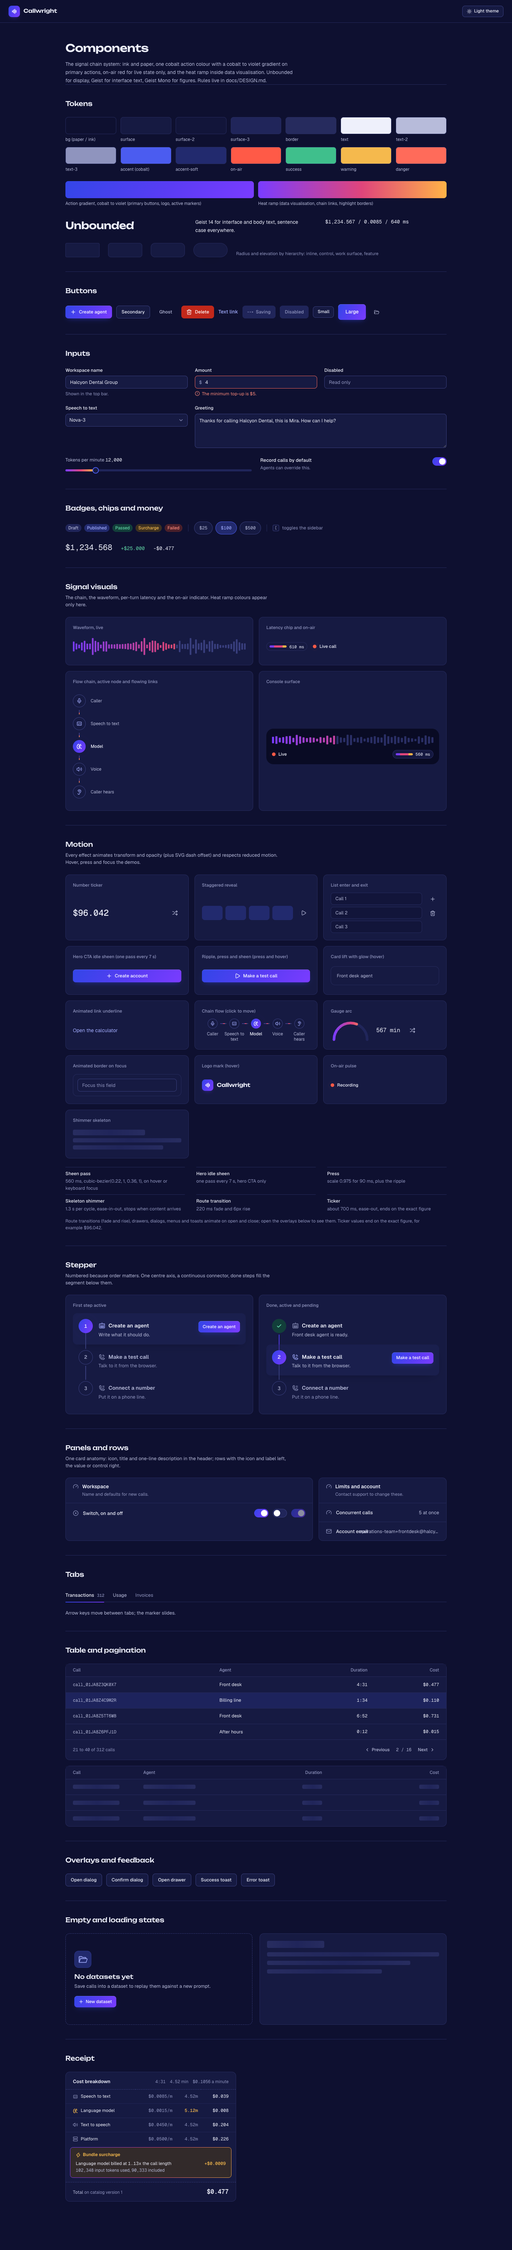
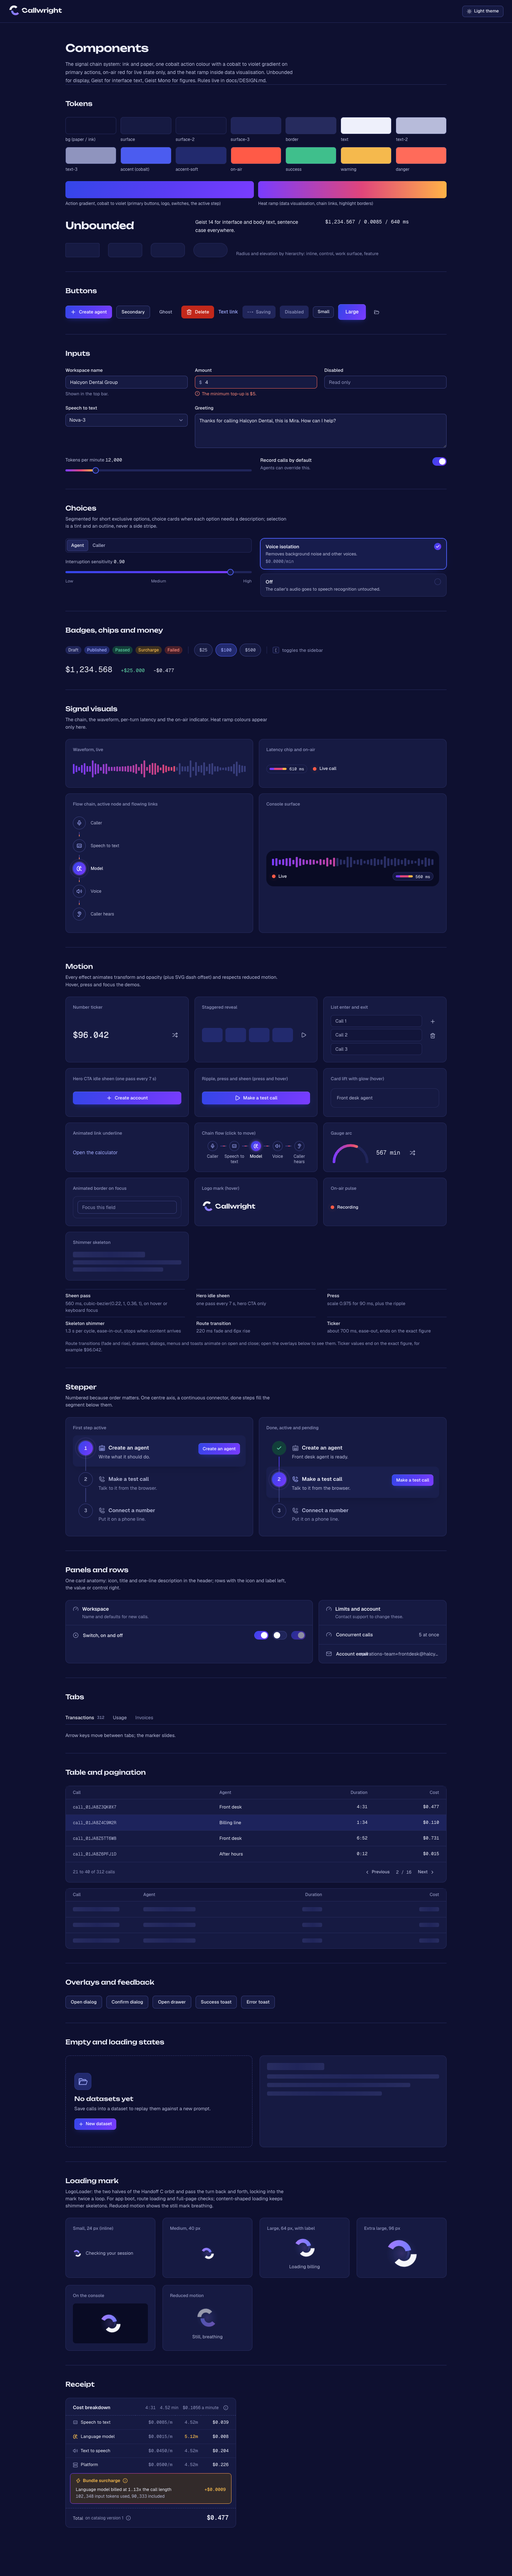
Document the agent builder components and add its screenshots
DESIGN.md gains Segmented, ChoiceGroup, slider marks, the vertical cost chain
and the critique notes from this pass; docs/screens holds every new agents
screen in light and dark at 1440 and 390; web tasks of 002 are marked done.

diff --git a/specs/002-agent-builder/tasks.md b/specs/002-agent-builder/tasks.md
@@ -60,7 +60,7 @@ research/architecture.md section 2 and plan.md.
 - [ ] T021 [P] Create SQLAlchemy models in `services/api/app/agents/models.py` (Agent) and `services/api/app/agent_versions/models.py` (AgentVersion)
 - [ ] T022 Implement `create_version(agent_id, config, note, source, publish=False)` with per-agent numbering under row lock, snapshot resolvers, hash dedupe and publish-blocker capture in `services/api/app/agent_versions/service.py`
 - [ ] T023 [P] Write integration test that `UPDATE`/`DELETE` on `agent_versions` and `UPDATE agents.type` raise, in `services/api/tests/integration/agent_versions/test_immutability.py`
-- [ ] T024 [P] Add web route skeleton in `apps/web/src/app/router.tsx` for `/agents`, `/agents/new`, `/agents/templates`, `/agents/new/single`, `/agents/:id`, `/agents/:id/edit`, and the type redirect in `apps/web/src/routes/agents/agentRedirect.tsx`
+- [x] T024 [P] Add web route skeleton in `apps/web/src/app/router.tsx` for `/agents`, `/agents/new`, `/agents/templates`, `/agents/new/single`, `/agents/:id`, `/agents/:id/edit`, and the type redirect in `apps/web/src/routes/agents/agentRedirect.tsx`
 - [ ] T090 [P] Catalog consistency test (FR-039, FR-042, FR-047, FR-048) in `services/api/tests/unit/catalog/test_catalog_consistency.py`: every LLM (provider, model), STT (provider, model and Auto), TTS (provider, model) and NC option has an exact rate in 001's seed under the same id; one model id across providers; language codes and labels unique; each shipped language covered by at least one STT and one TTS option; every STT provider has Auto or a default model; every default in `defaults.py` lies inside its control range and on its step; runs in CI
 - [ ] T091 [P] Round-trip test in `services/api/tests/integration/agents/test_config_roundtrip.py`: for both `single_prompt` and `flow` types, set every AgentConfig path in data-model section 4 to a non-default valid value, save, reload, and assert each value persisted (guards against partial saves such as dropped webhook timeout, pronunciation or analysis model)
 
@@ -82,7 +82,7 @@ research/architecture.md section 2 and plan.md.
 - [ ] T028 [P] [US1] Integration test for saving in `services/api/tests/integration/agents/test_save_draft.py`: create requires a valid config; change records version n+1; unchanged config returns `created=false`; name-only change records no version; stale `If-Match` returns 412 `draft_changed`; all errors returned together
 - [ ] T029 [P] [US1] Unit tests for voice listing adapters normalisation and cursor paging against fixtures in `services/api/tests/unit/voices/test_adapters.py`
 - [ ] T030 [P] [US1] Integration test for ambient uploads (magic-byte check, 10 MB limit, 20-file limit, signed preview URL, delete refused while referenced) in `services/api/tests/integration/agents/test_ambient_audio.py`
-- [ ] T031 [P] [US1] Playwright journey chooser, blank form, aggregated errors, fixed-temperature lock, variable auto-detection, save, reload persists, leave guard, in `apps/web/tests/e2e/agents-create.spec.ts`
+- [x] T031 [P] [US1] Playwright journey chooser, blank form, aggregated errors, fixed-temperature lock, variable auto-detection, save, reload persists, leave guard, in `apps/web/tests/e2e/agents-create.spec.ts`
 
 ### Implementation for User Story 1
 
@@ -92,19 +92,19 @@ research/architecture.md section 2 and plan.md.
 - [ ] T035 [P] [US1] Implement voice listing adapters in `services/api/app/voices/adapters/elevenlabs.py` (live, server search), `cartesia.py` (live full list, local search, gender and language filters) and `fishaudio.py` (curated allow-list from YAML, local search, language filter) with Redis caching in `services/api/app/voices/service.py`; no Sarvam voice adapter at launch (data-model 8.4)
 - [ ] T036 [US1] Implement migration `services/api/app/migrations/versions/0007_ambient_audio.py`, model in `services/api/app/voices/models.py`, upload/list/delete service with S3 and usage check via `jsonb_path_ops` lookup in `services/api/app/voices/service.py`
 - [ ] T037 [US1] Implement routes `GET /v1/voices/catalog`, `GET /v1/voices/{provider}/voices`, `/v1/voices/ambient-audio` in `services/api/app/voices/router.py` and `services/api/app/voices/schemas.py`
-- [ ] T038 [P] [US1] Build `apps/web/src/routes/agents/NewAgentTypePage.tsx` (two cards, bullets, "cannot be changed later", continue to templates or flow creation)
-- [ ] T039 [US1] Build `apps/web/src/routes/agents/editor/useAgentDraft.ts` (react-hook-form, debounced `POST /v1/agents/validate`, pointer-to-field error mapping, save via POST then PUT with If-Match, 412 handling) and `AgentEditorPage.tsx` (header with copyable agent id, version badge, Save, wrong-type guard for flow agents, LeaveGuard and ErrorSummaryDialog from 001)
-- [ ] T040 [P] [US1] Build `apps/web/src/routes/agents/editor/BasicSection.tsx`, `ModelPicker.tsx`, `TemperatureControl.tsx` (fixed lock with reason, clamp notice), `VariablesEditor.tsx` (auto-detected plus manual, defaults, reserved and unused markers)
-- [ ] T041 [P] [US1] Build `apps/web/src/routes/agents/editor/VoiceSection.tsx`, `SttPickerDialog.tsx` (Auto, single-model lock), `VoicePickerDialog.tsx` (search, gender and language filters, preview where available, retry on 503), `NoiseCancellationSelect.tsx`
-- [ ] T042 [P] [US1] Build `apps/web/src/routes/agents/editor/CallBehaviorSection.tsx` (silence 10 to 300 s slider, max duration in minutes, ring time, interruption and responsiveness with Low/Medium/High labels)
-- [ ] T043 [P] [US1] Build `apps/web/src/routes/agents/editor/AdvancedSection.tsx`, `WebhookField.tsx`, `BackgroundAudioField.tsx` (built-ins plus "Your uploads", upload, volume as percent of normal where gain 1.0 is 100%), `PronunciationEditor.tsx`, voicemail and keypad subsections, analysis model select
+- [x] T038 [P] [US1] Build `apps/web/src/routes/agents/NewAgentTypePage.tsx` (two cards, bullets, "cannot be changed later", continue to templates or flow creation)
+- [x] T039 [US1] Build `apps/web/src/routes/agents/editor/useAgentDraft.ts` (react-hook-form, debounced `POST /v1/agents/validate`, pointer-to-field error mapping, save via POST then PUT with If-Match, 412 handling) and `AgentEditorPage.tsx` (header with copyable agent id, version badge, Save, wrong-type guard for flow agents, LeaveGuard and ErrorSummaryDialog from 001)
+- [x] T040 [P] [US1] Build `apps/web/src/routes/agents/editor/BasicSection.tsx`, `ModelPicker.tsx`, `TemperatureControl.tsx` (fixed lock with reason, clamp notice), `VariablesEditor.tsx` (auto-detected plus manual, defaults, reserved and unused markers)
+- [x] T041 [P] [US1] Build `apps/web/src/routes/agents/editor/VoiceSection.tsx`, `SttPickerDialog.tsx` (Auto, single-model lock), `VoicePickerDialog.tsx` (search, gender and language filters, preview where available, retry on 503), `NoiseCancellationSelect.tsx`
+- [x] T042 [P] [US1] Build `apps/web/src/routes/agents/editor/CallBehaviorSection.tsx` (silence 10 to 300 s slider, max duration in minutes, ring time, interruption and responsiveness with Low/Medium/High labels)
+- [x] T043 [P] [US1] Build `apps/web/src/routes/agents/editor/AdvancedSection.tsx`, `WebhookField.tsx`, `BackgroundAudioField.tsx` (built-ins plus "Your uploads", upload, volume as percent of normal where gain 1.0 is 100%), `PronunciationEditor.tsx`, voicemail and keypad subsections, analysis model select
 - [ ] T044 [US1] Extend `services/api/tests/integration/test_rls_isolation.py` for `agents`, `agent_versions`, `ambient_audio_files`
-- [ ] T092 [P] [US1] Playwright scenarios in `apps/web/tests/e2e/agents-validation.spec.ts` (US1.9 to US1.14): `notaurl`, timeout 50 ms, max duration 0.2 and 61 minutes, ring -1 ms each show an inline error on blur and Save sends no request; `bad name!` refused as a variable; caller-first disables the greeting and keeps its text; provider switch picks the language default voice with a notice; labels equal stored values
+- [x] T092 [P] [US1] Playwright scenarios in `apps/web/tests/e2e/agents-validation.spec.ts` (US1.9 to US1.14): `notaurl`, timeout 50 ms, max duration 0.2 and 61 minutes, ring -1 ms each show an inline error on blur and Save sends no request; `bad name!` refused as a variable; caller-first disables the greeting and keeps its text; provider switch picks the language default voice with a notice; labels equal stored values
 - [ ] T093 [US1] Add `greeting_unused` warning (non-empty greeting with `start_speaker = user`) to `validate_config` in `services/api/app/agents/service.py` with unit cases in `services/api/tests/unit/agents/test_validate_config.py`; disable the greeting field with an explanation in `BasicSection.tsx`
-- [ ] T094 [P] [US1] Display formatters in `apps/web/src/routes/agents/editor/formatters.ts` (exact durations such as "1.5 s", multiplier, percent of normal gain) driven by catalog `controls`, used by every slider and number field; Vitest in `formatters.test.ts`
+- [x] T094 [P] [US1] Display formatters in `apps/web/src/routes/agents/editor/formatters.ts` (exact durations such as "1.5 s", multiplier, percent of normal gain) driven by catalog `controls`, used by every slider and number field; Vitest in `formatters.test.ts`
 - [ ] T095 [US1] Provider switch (FR-010): in `VoiceSection.tsx` set the provider's default model and `default_voice_by_language[language]`, show a notice naming the voice; server-side `validate_config` replaces a foreign voice with the same default and returns `component_replaced`
-- [ ] T096 [US1] "Test" on a never-saved agent (FR-044) in `apps/web/src/routes/agents/editor/AgentEditorPage.tsx`: run the save path (validation summary on errors), then open 003's test panel for the new agent; remove any placeholder behaviour
-- [ ] T097 [P] [US1] Editor panel slots (FR-043) in `apps/web/src/routes/agents/editor/panelSlots.ts`: a registry where 007 mounts the analysis variables and quality checks panels for both agent types; the single-prompt editor renders registered panels as tabs
+- [x] T096 [US1] "Test" on a never-saved agent (FR-044) in `apps/web/src/routes/agents/editor/AgentEditorPage.tsx`: run the save path (validation summary on errors), then open 003's test panel for the new agent; remove any placeholder behaviour
+- [x] T097 [P] [US1] Editor panel slots (FR-043) in `apps/web/src/routes/agents/editor/panelSlots.ts`: a registry where 007 mounts the analysis variables and quality checks panels for both agent types; the single-prompt editor renders registered panels as tabs
 
 **Checkpoint**: A single-prompt agent can be created, edited and saved with versions recorded.
 
@@ -127,7 +127,7 @@ research/architecture.md section 2 and plan.md.
 
 - [ ] T049 [US2] Implement `list_agents` (trigram search, exact id short-circuit, summaries with published version), `duplicate_agent`, `delete_agent` in `services/api/app/agents/service.py`
 - [ ] T050 [US2] Add routes `GET /v1/agents`, `POST /v1/agents/{agent_id}/duplicate`, `DELETE /v1/agents/{agent_id}` in `services/api/app/agents/router.py`
-- [ ] T051 [P] [US2] Build `apps/web/src/routes/agents/AgentsListPage.tsx` and `AgentCard.tsx` (badges, model, voice, language, published version, dates, search box, type filter, empty state, duplicate, delete confirm with attachment list on 409)
+- [x] T051 [P] [US2] Build `apps/web/src/routes/agents/AgentsListPage.tsx` and `AgentCard.tsx` (badges, model, voice, language, published version, dates, search box, type filter, empty state, duplicate, delete confirm with attachment list on 409)
 - [ ] T098 [US2] Idempotent create and duplicate (FR-038): honour `Idempotency-Key` on `POST /v1/agents` and `POST /v1/agents/{agent_id}/duplicate` with Redis key `idem:agents:{workspace_id}:{key}` (24 h) holding the created agent id in `services/api/app/agents/router.py`; integration test in `services/api/tests/integration/agents/test_idempotent_create.py` (same key twice returns the same agent, different keys create two); UI buttons disabled while pending and duplicate shows a toast linking to the copy
 
 **Checkpoint**: US1 and US2 work independently.
@@ -146,18 +146,18 @@ research/architecture.md section 2 and plan.md.
 - [ ] T053 [P] [US3] Unit tests for the keyed diff (variables by name, pronunciation by word ignoring case, tool ids by value, scalar replace, add/remove, stable ordering) in `services/api/tests/unit/agent_versions/test_diff.py`
 - [ ] T054 [P] [US3] Integration tests in `services/api/tests/integration/agent_versions/test_publish_restore.py`: publish sets pointer; publish re-evaluates blockers against current catalog (withdrawn component refused 422 `publish_blocked`); unpublish; restore records `source=restore` with `restored_from`; restore with `publish=true`; restore with stale If-Match 412; versions of a deleted agent readable
 - [ ] T055 [P] [US3] Integration test in `services/api/tests/integration/agent_versions/test_snapshot_for_test.py`: unchanged draft reuses the draft version; changed resolved tools produce a `source=test` version; published pointer untouched; hidden from history unless `include_test=true`
-- [ ] T056 [P] [US3] Vitest for `versionLabels.ts` coverage (every AgentConfig path in data-model section 4 has a label) in `apps/web/src/routes/agents/versions/versionLabels.test.ts`
-- [ ] T057 [P] [US3] Playwright journey history drawer, compare with readable labels and line diff, publish badge, restore in 3 clicks, in `apps/web/tests/e2e/agents-versions.spec.ts`
+- [x] T056 [P] [US3] Vitest for `versionLabels.ts` coverage (every AgentConfig path in data-model section 4 has a label) in `apps/web/src/routes/agents/versions/versionLabels.test.ts`
+- [x] T057 [P] [US3] Playwright journey history drawer, compare with readable labels and line diff, publish badge, restore in 3 clicks, in `apps/web/tests/e2e/agents-versions.spec.ts`
 
 ### Implementation for User Story 3
 
 - [ ] T058 [US3] Implement keyed diff in `services/api/app/agent_versions/diff.py` until T053 passes
 - [ ] T059 [US3] Implement `list_versions`, `get`, `get_published`, `diff`, `publish`, `unpublish`, `restore`, `snapshot_for_test` in `services/api/app/agent_versions/service.py`
 - [ ] T060 [US3] Implement schemas and routes in `services/api/app/agent_versions/schemas.py` and `services/api/app/agent_versions/router.py`
-- [ ] T061 [P] [US3] Build `apps/web/src/routes/agents/versions/VersionDrawer.tsx` (newest first, published and draft badges, source, note, author), `VersionCompare.tsx` (labels, old/new, line diff via `diff`), `versionLabels.ts`
-- [ ] T062 [P] [US3] Build `apps/web/src/routes/agents/versions/PublishButton.tsx` (publish draft version, show blockers, unpublish with confirm) and wire restore confirm ("restore to draft" or "restore and publish") into `VersionDrawer.tsx`
+- [x] T061 [P] [US3] Build `apps/web/src/routes/agents/versions/VersionDrawer.tsx` (newest first, published and draft badges, source, note, author), `VersionCompare.tsx` (labels, old/new, line diff via `diff`), `versionLabels.ts`
+- [x] T062 [P] [US3] Build `apps/web/src/routes/agents/versions/PublishButton.tsx` (publish draft version, show blockers, unpublish with confirm) and wire restore confirm ("restore to draft" or "restore and publish") into `VersionDrawer.tsx`
 - [ ] T099 [US3] Version `parent_version_id` and `summary` (data-model section 2): columns in `services/api/app/migrations/versions/0005_agents.py`, computed in `create_version` in `services/api/app/agent_versions/service.py`, exposed as `parent_version_number` and `summary` in `VersionSummary`; contract test update in `services/api/tests/contract/test_agent_versions_contract.py`
-- [ ] T100 [P] [US3] In `VersionDrawer.tsx` show each version's summary (model, voice, tool and knowledge counts) and, when only one version exists, disable compare and restore with the hint "Nothing to compare yet" (US3.8)
+- [x] T100 [P] [US3] In `VersionDrawer.tsx` show each version's summary (model, voice, tool and knowledge counts) and, when only one version exists, disable compare and restore with the hint "Nothing to compare yet" (US3.8)
 
 **Checkpoint**: Versions support 003 (test snapshots, published version) and 004 (create_version).
 
@@ -172,14 +172,14 @@ research/architecture.md section 2 and plan.md.
 ### Tests for User Story 4 (write first, must fail)
 
 - [ ] T063 [P] [US4] Money test in `services/api/tests/integration/agents/test_cost_card_parity.py`: for default, NC-off and premium selections, the per-minute total from `POST /v1/pricing/quote` equals the sum of the catalog `price_per_min_usd` values shown in pickers plus platform; unpriced component makes `complete=false` and a publish blocker `unpriced`
-- [ ] T064 [P] [US4] Vitest for `apps/web/src/routes/agents/editor/surchargeRisk.test.ts` (about 3,300 words triggers at a 20,000 bundle, 1,000 words does not, bundle read from quote)
-- [ ] T065 [P] [US4] Vitest for `apps/web/src/routes/agents/editor/CostCard.test.tsx` (five lines, NC line hidden when off, "price unavailable", total marked incomplete, refetch on selection change only)
+- [x] T064 [P] [US4] Vitest for `apps/web/src/routes/agents/editor/surchargeRisk.test.ts` (about 3,300 words triggers at a 20,000 bundle, 1,000 words does not, bundle read from quote)
+- [x] T065 [P] [US4] Vitest for `apps/web/src/routes/agents/editor/CostCard.test.tsx` (five lines, NC line hidden when off, "price unavailable", total marked incomplete, refetch on selection change only)
 
 ### Implementation for User Story 4
 
-- [ ] T066 [US4] Build `apps/web/src/routes/agents/editor/CostCard.tsx` (debounced 250 ms quote query keyed by selection, lines, total, bundle explainer) and `surchargeRisk.ts`
-- [ ] T067 [P] [US4] Show per-minute price in `ModelPicker.tsx`, `SttPickerDialog.tsx` and the voice model select in `VoiceSection.tsx` from catalog `price_per_min_usd`
-- [ ] T101 [P] [US4] CostCard rules from the live findings (US4.5) in `apps/web/src/routes/agents/editor/CostCard.tsx`: NC line shown whenever NC is on (including $0.0000), bundle text on LLM and TTS lines, an unpriced option is never rendered as $0.0000; cases added to `CostCard.test.tsx`
+- [x] T066 [US4] Build `apps/web/src/routes/agents/editor/CostCard.tsx` (debounced 250 ms quote query keyed by selection, lines, total, bundle explainer) and `surchargeRisk.ts`
+- [x] T067 [P] [US4] Show per-minute price in `ModelPicker.tsx`, `SttPickerDialog.tsx` and the voice model select in `VoiceSection.tsx` from catalog `price_per_min_usd`
+- [x] T101 [P] [US4] CostCard rules from the live findings (US4.5) in `apps/web/src/routes/agents/editor/CostCard.tsx`: NC line shown whenever NC is on (including $0.0000), bundle text on LLM and TTS lines, an unpriced option is never rendered as $0.0000; cases added to `CostCard.test.tsx`
 
 **Checkpoint**: Cost visible at every priced choice.
 
@@ -203,7 +203,7 @@ research/architecture.md section 2 and plan.md.
 - [ ] T072 [P] [US5] Write the seven launch templates in `services/api/app/templates/seed/` exactly as listed in data-model.md section 6 (categories automotive, banking, ecommerce, healthcare, telecom; intent, structure and variables per row; original Callwright prompts and greetings, no text copied from the reference)
 - [ ] T073 [US5] Implement sync job in `services/api/app/templates/jobs.py` (CLI `python -m app.templates.jobs sync`, run on deploy) and list/get/categories in `services/api/app/templates/service.py`
 - [ ] T074 [US5] Implement routes in `services/api/app/templates/router.py` and `services/api/app/templates/schemas.py`; add the template overlay path to `create_agent` in `services/api/app/agents/service.py`
-- [ ] T075 [P] [US5] Build `apps/web/src/routes/agents/TemplatesPage.tsx` ("Start from scratch" first, "All" plus category chips, search) and `TemplatePreviewDialog.tsx` (opened by clicking anywhere on a card; prompt, greeting, language, variables; only "Use template" creates, sending an `Idempotency-Key` and disabling itself while pending, then opens the editor)
+- [x] T075 [P] [US5] Build `apps/web/src/routes/agents/TemplatesPage.tsx` ("Start from scratch" first, "All" plus category chips, search) and `TemplatePreviewDialog.tsx` (opened by clicking anywhere on a card; prompt, greeting, language, variables; only "Use template" creates, sending an `Idempotency-Key` and disabling itself while pending, then opens the editor)
 - [ ] T102 [P] [US5] Template content test in `services/api/tests/unit/templates/test_launch_set.py`: exactly 7 active templates, counts per category 1/2/1/2/1, every template declares `company_name` with a default and every `{{name}}` it uses has a default, no `llm.temperature` on fixed models, canonical model ids, no `tts.voice_id`, slugs and names as in data-model section 6
 - [ ] T103 [P] [US5] Integration test in `services/api/tests/integration/templates/test_use_template_idempotent.py`: `POST /v1/agents {template_id}` with the same `Idempotency-Key` twice creates one agent whose draft has provider, model and the language default voice filled from defaults
 
@@ -222,14 +222,14 @@ research/architecture.md section 2 and plan.md.
 - [ ] T076 [P] [US6] Contract tests for `contracts/prompt_ai.yaml` (200, 402, 422, 429, 504) in `services/api/tests/contract/test_prompt_ai_contract.py`
 - [ ] T077 [P] [US6] Money tests in `services/api/tests/integration/prompt_ai/test_charging.py`: one `feature_charge` and one `prompt_generation` usage event per successful request; same `Idempotency-Key` charges once; nothing charged on 402, 429 or 504
 - [ ] T078 [P] [US6] Unit tests for proposal extraction (reply only, reply with proposal, malformed proposal ignored, invalid variable names dropped) in `services/api/tests/unit/prompt_ai/test_proposal.py`
-- [ ] T079 [P] [US6] Vitest for `apps/web/src/routes/agents/editor/AssistantPanel.test.tsx` (proposal diff shown, Apply marks form dirty without saving, Undo restores, add-funds message on 402)
+- [x] T079 [P] [US6] Vitest for `apps/web/src/routes/agents/editor/AssistantPanel.test.tsx` (proposal diff shown, Apply marks form dirty without saving, Undo restores, add-funds message on 402)
 
 ### Implementation for User Story 6
 
 - [ ] T080 [US6] Implement the API-side model gateway `services/api/app/llms/client.py` with adapters `services/api/app/llms/adapters/azure_openai.py`, `openai.py`, `anthropic.py` and a deterministic `fake.py` for dev and tests
 - [ ] T081 [US6] Write assistant instructions in `services/api/app/prompt_ai/system_prompt.md` and implement `services/api/app/prompt_ai/service.py` (credit refusal, 20/min limit via `core/rate_limit.py`, 60 s timeout, proposal parsing, `billing.charge_feature`)
 - [ ] T082 [US6] Implement `POST /v1/prompt-ai/generate` in `services/api/app/prompt_ai/router.py` and `services/api/app/prompt_ai/schemas.py`
-- [ ] T083 [P] [US6] Build `apps/web/src/routes/agents/editor/AssistantPanel.tsx` (chat, proposal card with diff against current prompt, Apply, Undo)
+- [x] T083 [P] [US6] Build `apps/web/src/routes/agents/editor/AssistantPanel.tsx` (chat, proposal card with diff against current prompt, Apply, Undo)
 
 **Checkpoint**: All six stories independently functional.
 

diff --git a/apps/web/docs/DESIGN.md b/apps/web/docs/DESIGN.md
@@ -257,7 +257,21 @@ Guardrails:
 `Drawer`, `Table`, `Pagination`, `Toast`, `EmptyState`, `Skeleton`, `Badge`, `Chip`, `Kbd`,
 `MoneyText`, `Ticker`, `CostBreakdownCard` (receipt), `Panel`, `PageHeader`, `Inspector`,
 `Waveform`, `FlowChain`, `Stepper`, `LatencyChip`, `PanelRows` (`FieldRow`, `InfoRow`), `SwitchControl`, `OnAir`, `Logo`, `LeaveGuard`, `ErrorSummaryDialog`,
-`Tooltip`, `TruncatedText`, `InfoTip`, `CopyButton`, `LogoLoader` (`FullPageLoader`, `PanelLoader`).
+`Tooltip`, `TruncatedText`, `InfoTip`, `CopyButton`, `LogoLoader` (`FullPageLoader`, `PanelLoader`),
+`Segmented`, `ChoiceGroup`.
+
+Choices:
+- `Segmented` is for two to four short, exclusive options (who speaks first, a type filter, call
+  recording). The selected segment is a raised pill that slides between options.
+- `ChoiceGroup` is for options that need a description or a price (agent type, speech recognition
+  model, noise cancellation). Selection is a tinted surface, an accent outline all round and a check
+  disc; unselected cards lift on hover. Both are radio groups: one tab stop, arrow keys move.
+- `Slider` takes `marks` (Low, Medium, High) aligned with the thumb centre; the value itself sits in
+  a fixed-width mono pill above the track, formatted from the catalog control range so the label is
+  always the stored value (1,500 ms reads "1.5 s", gain 1.0 reads "100%").
+- `Chip mono={false}` for word filters (industries); mono stays for amounts.
+- `FlowChain stack="always"` keeps a chain vertical with a value on each row (the agent cost chain).
+- `toast({ action })` adds one follow-up ("Open the copy").
 
 Tooltips and truncation:
 - Every icon-only button names its action in a tooltip (`IconButton` does it for you).
@@ -295,3 +309,11 @@ Recorded after each screenshot pass: look, remove one accessory, re-shoot.
    eased pass on hover; the dashboard sequence became a real stepper.
 5. At 1024 the pricing chain had no room for subtotals between nodes; with `FlowChain` they sit
    centred on equal connectors, and the chain turns vertical on narrow containers.
+6. Agent builder (spec 002): the editor is one signature moment, the agent's own signal chain in the
+   inspector with a rate per link and a total that ticks; the link whose selection changed lights up
+   for two seconds. Removed during review: a type badge duplicated by the section title, a second
+   "Pronunciation" label inside the Pronunciation card, check marks after the type chooser bullets
+   and the stretched-link overlay on agent cards (it hid tooltips on cut-off values). Fixed: gradient
+   strokes on horizontal SVG paths need `gradientUnits="userSpaceOnUse"`, icon prefixes in inputs
+   need 36px of padding, and choice-card prices move under the description on small cards so titles
+   do not wrap against them.
